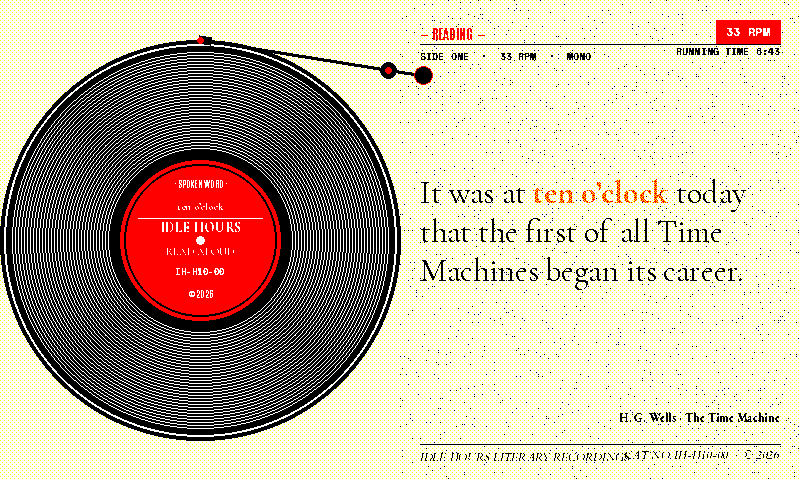
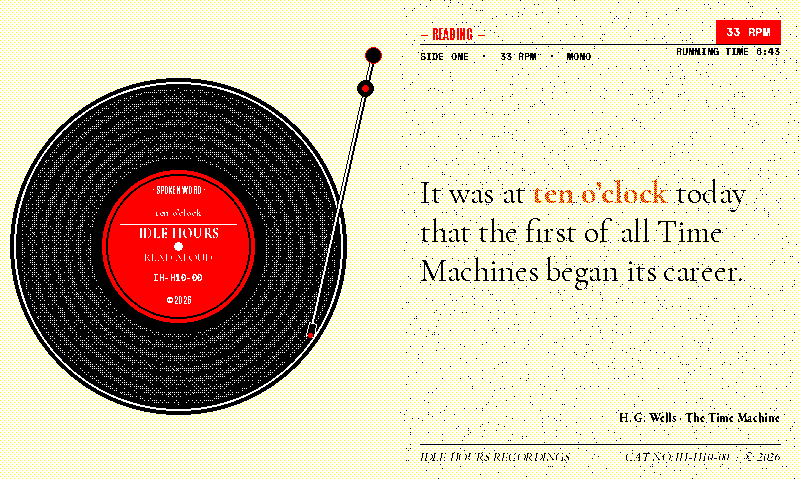
Refresh the README prose and previews for both themes
The theme table's tarot and vinyl thumbnails still showed the old
compositions, and the prose beneath described behaviour these two
commits replaced: corner numerals rotated 180 degrees, a 520x440
centred card, groove hairlines, and a stylus sweeping the rim at the
minute's clock angle.

Claude-Session: https://claude.ai/code/session_01PbEGAhRw54Eiqhzg9bjcUW

Changed region(s): [[0.0, 0.0625, 0.5625, 0.9375], [0.625, 0.9375, 0.9688, 0.9688]]

diff --git a/README.md b/README.md
@@ -333,7 +333,7 @@ Sixty-one themes ship built-in, all constrained to the Spectra 6 panel palette (
 
 `cartograph` is a hand-drawn antique cartographer's chart — the terrestrial-map sibling of the navigation trio that already includes `firmament` (celestial atlas) and `astrarium` (instrument-panel dashboard). Eleven-layer composition on a cream Y+W Bayer-washed parchment ground: a sepia 9×5 latitude/longitude **graticule** with degree-tick stubs at the canvas edges (the single biggest "this is a chart" cue — parallels and meridians are what turn an illustrated page into a navigable map); eight **rhumb lines** radiating from the compass rose at every 45° to the canvas edges (the canonical portolan-chart marking that signals navigational use); a sepia **foxing scatter** for aged-paper texture; two diagonal-corner **coastline silhouettes** at TL and BR, filled in R+G sepia via the documented two-ink recipe; three small scattered **islands** in the open-sea margins; an R+Y tangerine **compass rose** at the bottom-left (8-point — four long cardinals + four shorter ordinals); a small black **sea-serpent doodle** in the bottom-mid sea ("here be dragons" margin convention); three Latin **place-name labels** in italic sepia (*Mare Incognitum* top centre, *Insula Aurea* top right, *Terra Nova* bottom centre); and a doubled red+black rubricated **cartouche knockout** around the body text with small registration-cross corner accents, echoing the doubled rule `illuminated` and `tarot` use, here scaled inward as a contained cartouche rather than a page frame. Body in **IM Fell English Italic** (the period-accurate cartographic register 17th-century mapmakers used for ocean and place labels — promoting the Oxford-press italic from the ornament-only role `herbarium` uses for its Latin specimen tag to a primary body face is a fresh silhouette in the rotation). The matched-phrase role picks IM Fell *Regular* (upright Roman) — the canonical "place name vs body prose" distinction every real cartographer made, so differentiation arrives via colour (red) + roman/italic split rather than weight alone. Unlike `astrarium` / `marquee` / `tarot` / `vinyl`, `cartograph` runs through the **standard render path**, so the `--mode debug` overlay applies — the DEBUG MODE banner clears the chart in the top-right corner by design.
 
-`marquee`, `tarot`, and `vinyl` are three more custom-render themes that follow the `astrarium` pattern — each dispatches out of `render()` into its own frame function and owns its composition top to bottom. **`marquee`** is a 1930s movie-palace facade: a black ground framed by an alternating yellow + red bulb-light border around the entire perimeter (with small white highlight pixels on each bulb so they read as lit glass), big chunky Bungee Shade book title at the top as the "feature title" (uppercased, auto-shrunk through 72→32pt and wrapping to two lines for long titles), a NOW SHOWING tagline above and ONE NIGHT ONLY below, the literary quote rendered in white Cardo Italic with a red matched-phrase accent as the feature copy, and a WRITTEN BY [AUTHOR] credit chrome at the bottom (yellow Antonio Bold label + white Cardo Italic name). The digital HH:MM is deliberately never surfaced — the matched-phrase red highlight in the body carries the time signal, the way every other quote-based literary clock does. **`tarot`** is a single centred major-arcana card on a cream-and-sepia foxed vellum ground: doubled red+black rubricated border with playing-card-style Roman numerals in all four corners (bottom pair rotated 180°), Roman-numeral hour at top (Cinzel Decorative Black), matched-phrase card name in Tyrian purple (R+B 1:1 dither), an hour-mapped emblem at centre (all twelve trumps — Magician through World — ship as detailed line-work templates, ~140–200 px tall), EB Garamond body sitting in a clean cream cartouche knocked out of the surrounding foxing, centred attribution. **`vinyl`** is a turntable + LP back-cover, framed as a 1950s/60s **literary audiobook recording** — same chassis a music LP would have, but with the chrome text in the spoken-word register that real labels like Caedmon Records (Dylan Thomas, T. S. Eliot, Auden) and Spoken Arts pressed during the original audiobook-on-vinyl era. A black vinyl LP fills the left half (centre at (200, 240), radius 200, densely-packed concentric groove hairlines + smooth dead-wax ring + heavier lead-in groove at the rim); a pivoted black tonearm pivots from the upper-right of the turntable with a visible counterweight + cartridge headshell + red stylus pin contacting the disk at the current-minute rim position (sweeping clockwise from 12-o'-clock). The red 80-px-radius label at the spindle carries an outer black ring border, a `· SPOKEN WORD ·` format mark, the matched-phrase passage title, an `IDLE HOURS / READ ALOUD` brand stack, a Space Mono catalog number like `IH-H2-30`, and a `© YYYY` year stamp. The right half is a cream-washed liner-notes panel: a small red `— READING —` heading at the top, the literary quote in Cormorant Garamond with a tangerine R+Y matched-phrase substitution, author/title attribution, and a bottom catalog bar reading `IDLE HOURS LITERARY RECORDINGS  ·  CAT NO. …  ·  © YYYY`. A `33 RPM` badge sits in the top-right corner. As with the other custom-render themes, `--mode debug` does not apply.
+`marquee`, `tarot`, and `vinyl` are three more custom-render themes that follow the `astrarium` pattern — each dispatches out of `render()` into its own frame function and owns its composition top to bottom. **`marquee`** is a 1930s movie-palace facade: a black ground framed by an alternating yellow + red bulb-light border around the entire perimeter (with small white highlight pixels on each bulb so they read as lit glass), big chunky Bungee Shade book title at the top as the "feature title" (uppercased, auto-shrunk through 72→32pt and wrapping to two lines for long titles), a NOW SHOWING tagline above and ONE NIGHT ONLY below, the literary quote rendered in white Cardo Italic with a red matched-phrase accent as the feature copy, and a WRITTEN BY [AUTHOR] credit chrome at the bottom (yellow Antonio Bold label + white Cardo Italic name). The digital HH:MM is deliberately never surfaced — the matched-phrase red highlight in the body carries the time signal, the way every other quote-based literary clock does. **`tarot`** is a portrait major-arcana card laid on a cream-and-sepia foxed vellum reading cloth, with the interpretation in a cartouche beside it: doubled red+black rubricated border, rubricated corner lozenges, Roman-numeral hour at the head (Cinzel Decorative Black), a ruled illustration panel carrying an hour-mapped trump, and the matched-phrase card name in Tyrian purple (R+B 1:1 dither) along the foot — numeral above, figure between, name below, the layout every historical trump uses. All twelve trumps (Magician through World) are line-work figures drawn to a shared skeleton: a robe under a head with a face, drapery folds at one third the outline weight, and arms that end in hands holding the trump's attribute. EB Garamond body in a clean cream cartouche knocked out of the cloth, centred attribution at its foot. **`vinyl`** is a turntable + LP back-cover, framed as a 1950s/60s **literary audiobook recording** — same chassis a music LP would have, but with the chrome text in the spoken-word register that real labels like Caedmon Records (Dylan Thomas, T. S. Eliot, Auden) and Spoken Arts pressed during the original audiobook-on-vinyl era. A black vinyl LP fills the left half (concentric sheen banding across the programme area + smooth dead-wax ring + heavier lead-in groove at the rim); a cased black-and-chrome tonearm pivots from the upper-right of the turntable with a visible counterweight + cartridge headshell + red stylus pin resting on the disk. **The minute drives the stylus radius, not an angle** — a record plays outside-in, so the arm creeps inward across the hour exactly as a real one does while a side plays, and its angle falls out of the geometry. The red label at the spindle carries an outer black ring border, a `· SPOKEN WORD ·` format mark, the matched-phrase passage title, an `IDLE HOURS / READ ALOUD` brand stack, a Space Mono catalog number like `IH-H2-30`, and a `© YYYY` year stamp. The right half is a cream-washed liner-notes panel: a small red `— READING —` heading at the top, the literary quote in Cormorant Garamond with a tangerine R+Y matched-phrase substitution, author/title attribution, and a bottom catalog bar reading `IDLE HOURS LITERARY RECORDINGS  ·  CAT NO. …  ·  © YYYY`. A `33 RPM` badge sits in the top-right corner. As with the other custom-render themes, `--mode debug` does not apply.
 
 **`vitrail`** is a Gothic stained-glass cathedral window, and the theme that leans hardest into the panel's full colour gamut. Black lead-came tracery divides the canvas into an irregular hand-leaded mosaic of jewel-toned glass shapes (a jittered lattice split into varied quadrilaterals and triangular shards, not a uniform grid) that deliberately surface the entire synthesized Spectra 6 palette — the four saturated native inks plus amber/gold, royal purple, teal, plum, lavender, rose, sky-blue, olive, mint, navy and forest, each built from the documented stipple recipes so the frame stays on-palette. The came is drawn as a beveled raised bar (a white specular highlight on the upper-left, a black drop shadow on the lower-right) so it reads as a physical 3D lead frame standing proud of recessed glass rather than flat lines, and diagonal specular sheen bands are swept across the panes so the glass reads as a glossy reflective surface catching light. A pointed lancet arch is carved into the top; a rose-window medallion divides a stone-ringed glass disc into twelve jewel-tone petals and carries the Roman-numeral hour (in Uncial Antiqua) at its hub. The literary quote glows in a clear white-glass central cartouche knocked out of the colored field so the EB Garamond body and the violet-glass matched phrase stay legible, with author/title at the cartouche foot. The digital HH:MM is never surfaced — the matched phrase and the rose-window numeral carry the time. Fully deterministic and, like the other custom-render frames, dispatched out of `render()` into its own frame function (so `--mode debug` does not apply).
 
